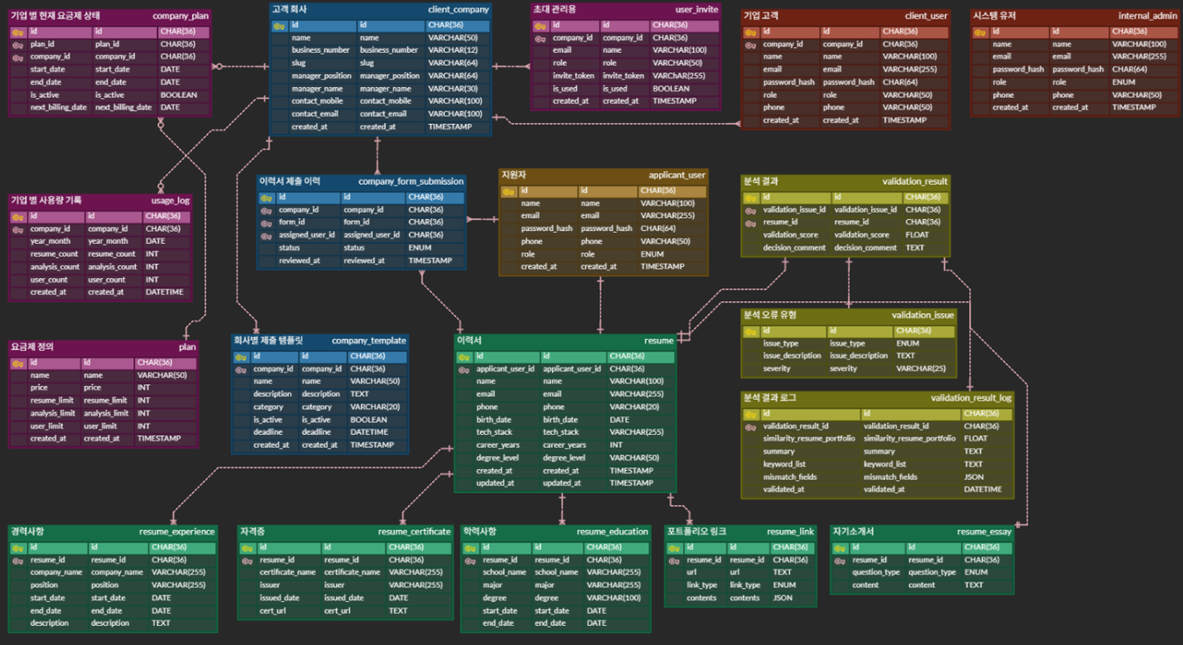
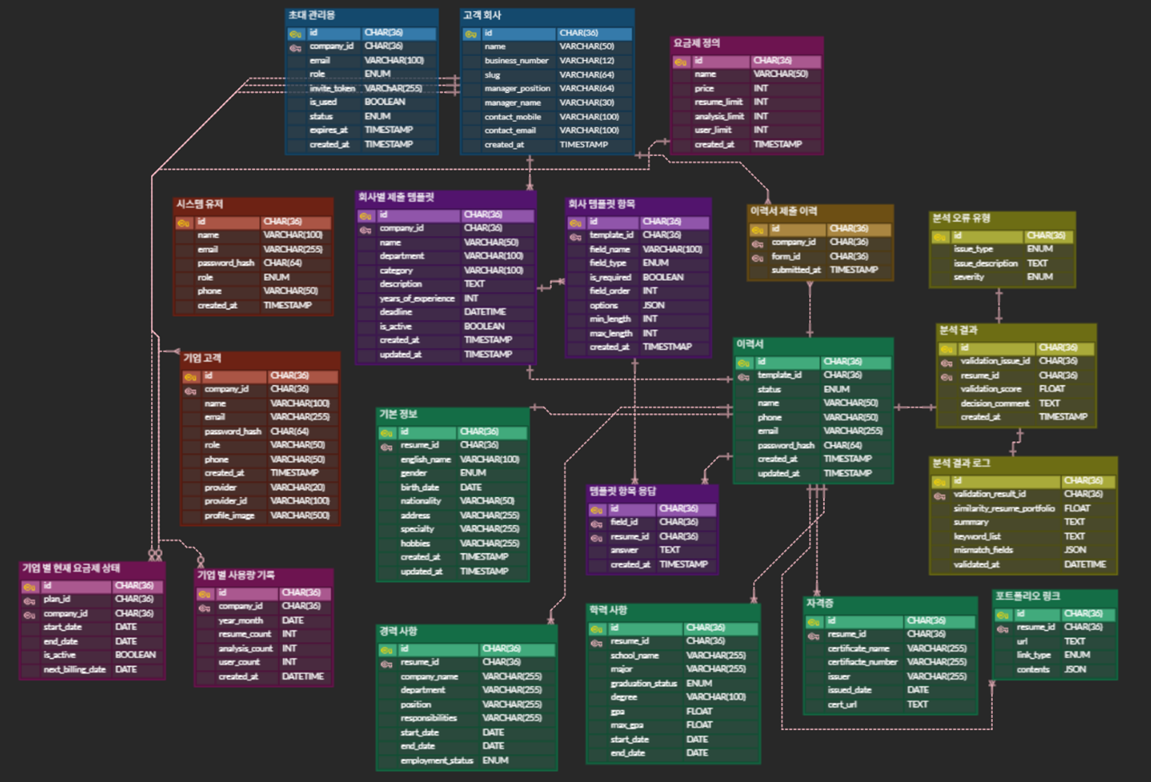
[Docs] readme figma&erd update (#48)
* [docs] README.md에 피그마 링크 삽입

* [docs] update erd

diff --git a/README.md b/README.md
@@ -18,7 +18,7 @@
 4. [시스템 아키텍처](#4-시스템-아키텍처)  
 5. [데이터베이스 설계 (ERD)](#5-데이터베이스-설계-erd)
 6. [테이블-명세서](#6-테이블-명세서)
-7. [기능 흐름 및 API 설계](#7-기능-흐름-및-api-설계)
+7. [화면 기능 설계서 및 API 설계](#7-화면-기능-설계서-및-api-설계)
 8. [기여 가이드](#8-기여-가이드)  
 9. [향후 개선 계획](#9-향후-개선-계획)
 
@@ -119,16 +119,10 @@
 
 <br>
 
-## 7. 기능 흐름 및 API 설계
+## 7. 화면 기능 설계서 및 API 설계
 
-### 7.1 기능 흐름 요약
-사용자 → 이력서 폼 작성
-
-백엔드 → 포트폴리오 크롤링 및 NLP 요약
-
-백엔드 → 정합성 점수 산출 및 저장
-
-관리자/기업 → 결과 조회 및 보고서 확인
+### 7.1 화면 기능 설계서
+[화면 기능 설계서](https://www.figma.com/design/lgxhAzsihIkBahgsgE6fPL/SpecGuard-%ED%99%94%EB%A9%B4-%EC%84%A4%EA%B3%84%EC%84%9C?node-id=66-137&t=0YHbF7USg7Nyz9WU-1)
 
 ### 7.2 API 명세서
 [API 명세서](https://www.notion.so/API-2455605940ec80d0a6cecfb101029e19?source=copy_link)
